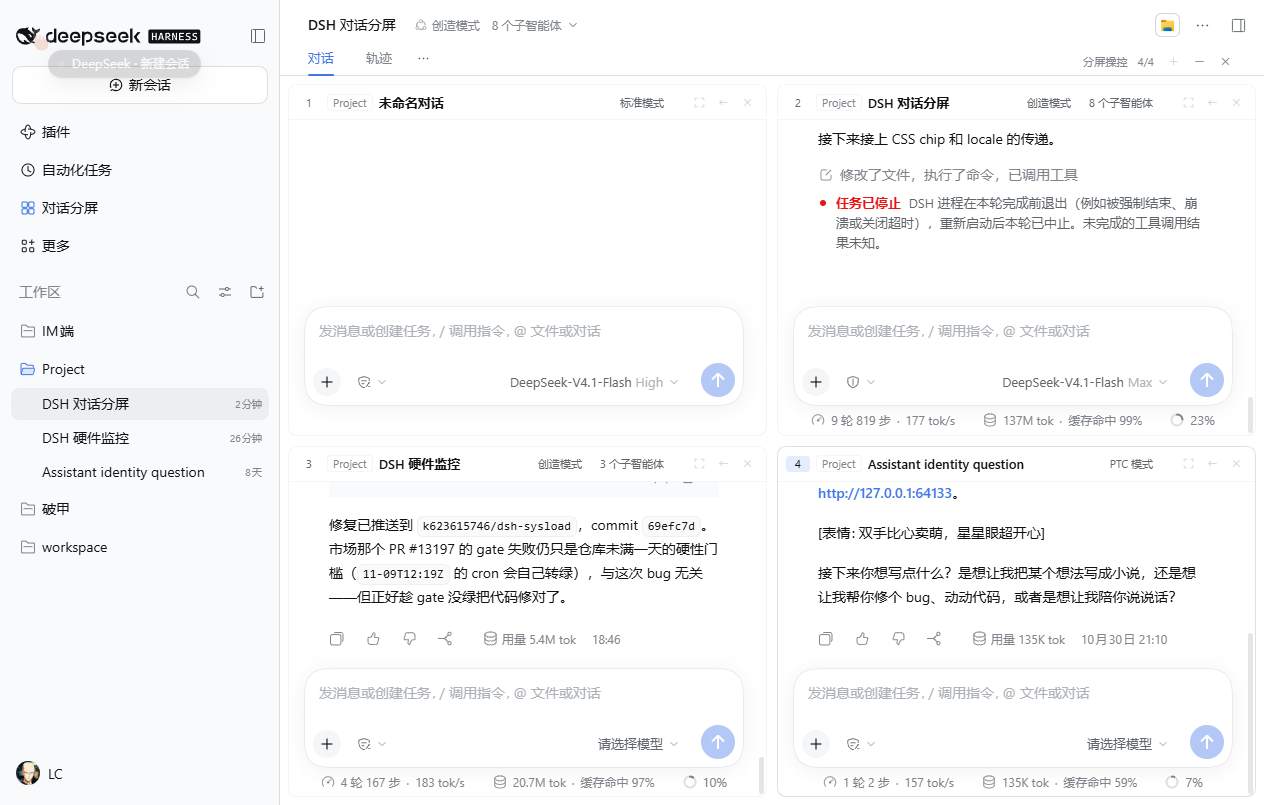
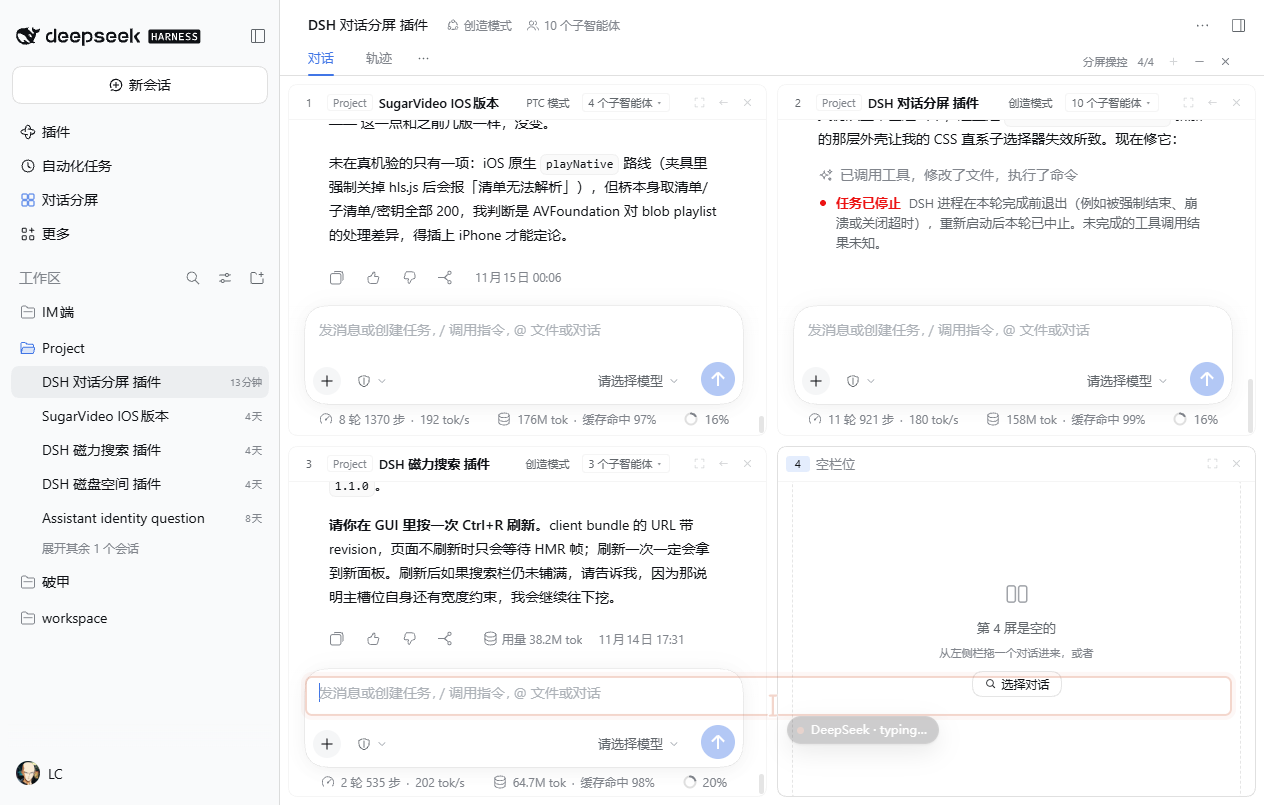
fix: 适配 DSH 0.2.2（conversation.hero.frame 包裹后旧正文透出）
0.2.2-rc.5 的 conversation.content 先 renderSlot('conversation.hero.frame', …)，
宿主 [data-conversation-scroll] 变成孙节点，原来的 > 直系子选择器失配，
网格底下会透出旧会话正文。改成后代选择器隐藏，再用
.dcs-hostgrid [data-conversation-region=chat] 按特异性把每屏滚动体盖回 flex。

dcs-lab 回归：4 屏布局/拖入即分屏/铺满/Esc/输入可发/开关零残留/子智能体清单全部通过。

diff --git a/lib/client.js b/lib/client.js
@@ -512,8 +512,12 @@ window.__ModuleLoader__.load({
     .dcs-panehead-tools .dcs-btn{width:22px;height:22px;border-radius:6px}
 
     /* 宿主会话面板不动，网格盖在正文区上，顶栏与页签因此保留 */
-    /* 宿主会话正文区：隐藏它原来那份单会话滚动体，网格接管这块空间 */
-    [data-conversation-content][data-dcs-host="1"] > [data-conversation-scroll]{display:none}
+    /* 宿主会话正文区：隐藏它原来那份单会话滚动体，网格接管这块空间。
+       0.2.2 起宿主的滚动体被包进 hoc 槽 conversation.hero.frame（一层 display:contents 的 wrapper），
+       不再是 [data-conversation-content] 的直系子节点，所以这里用后代选择器；
+       网格里每屏自己的滚动体也在同一棵子树上，用下面第二条按特异性盖回来。 */
+    [data-conversation-content][data-dcs-host="1"] [data-conversation-scroll]{display:none}
+    .dcs-hostgrid [data-conversation-region="chat"] [data-conversation-scroll]{display:flex}
     .dcs-hostgrid{flex:1;min-height:0;min-width:0;display:flex;flex-direction:column;overflow:hidden}
     .dcs-hostgrid > .dcs-root{height:100%}
     .dcs-root[data-variant="overlay"]{padding:8px}

diff --git a/src/client/02-css.js b/src/client/02-css.js
@@ -349,8 +349,12 @@ html[data-dcs-drop="1"] [data-slot="main"] [data-conversation-session]{
 .dcs-panehead-tools .dcs-btn{width:22px;height:22px;border-radius:6px}
 
 /* 宿主会话面板不动，网格盖在正文区上，顶栏与页签因此保留 */
-/* 宿主会话正文区：隐藏它原来那份单会话滚动体，网格接管这块空间 */
-[data-conversation-content][data-dcs-host="1"] > [data-conversation-scroll]{display:none}
+/* 宿主会话正文区：隐藏它原来那份单会话滚动体，网格接管这块空间。
+   0.2.2 起宿主的滚动体被包进 hoc 槽 conversation.hero.frame（一层 display:contents 的 wrapper），
+   不再是 [data-conversation-content] 的直系子节点，所以这里用后代选择器；
+   网格里每屏自己的滚动体也在同一棵子树上，用下面第二条按特异性盖回来。 */
+[data-conversation-content][data-dcs-host="1"] [data-conversation-scroll]{display:none}
+.dcs-hostgrid [data-conversation-region="chat"] [data-conversation-scroll]{display:flex}
 .dcs-hostgrid{flex:1;min-height:0;min-width:0;display:flex;flex-direction:column;overflow:hidden}
 .dcs-hostgrid > .dcs-root{height:100%}
 .dcs-root[data-variant="overlay"]{padding:8px}

diff --git a/README.md b/README.md
@@ -71,6 +71,7 @@ node scripts/check.mjs # 注册表 / 槽声明 / 持久化 key 的静态自检
 
 踩过的坑，都在源码注释里：
 
+- **DSH 0.2.2 起正文多包了一层**：`conversation.content` 内部先 `renderSlot('conversation.hero.frame', …)`（`hoc`/`root` 槽，官方 occupant 是 home-whale，其 `.layer{display:contents}`），宿主那份 `[data-conversation-scroll]` 因此**不再是** `[data-conversation-content]` 的直系子节点。隐藏宿主正文必须用后代选择器 `[data-conversation-content][data-dcs-host="1"] [data-conversation-scroll]{display:none}`，再用 `.dcs-hostgrid [data-conversation-region="chat"] [data-conversation-scroll]{display:flex}` 按特异性把网格内每屏的滚动体盖回来；写成 `>` 直系选择器会让旧会话从网格下透出来。
 - 分屏里 `phase` 只能给 `active`、`hero` 必须 false。宿主 `ConversationContent` 的 `inert` 判据是 `sessionId === void 0 || hero && chipTitle === void 0`；分屏没有它内部那份 workspace chip 状态，一旦判成 `hero` 就等于 disabled —— 输入框占位文字常驻、打不进字、发不出消息。
 - `shell.overlay` 的一个 occupant 抛错会把**整个浮动层**塌成 error 占位（其它插件的 toast/菜单一起消失）。错误边界与 `services` 都在 `applyInner()` 闭包里，模块顶层的 `OverlayShell` 取不到 —— 必须由 apply 里再包一层闭包组件（`OverlayBody`）把它们注进去。
 - 宿主槽名（`conversation.header` / `conversation.session` / `main.conversation`）一个都不许再声明：一个槽名只能被一个父 entry 的 children 表声明，抢了就让 ui-conversation 激活失败、13 个 entry 连锁 pending。
